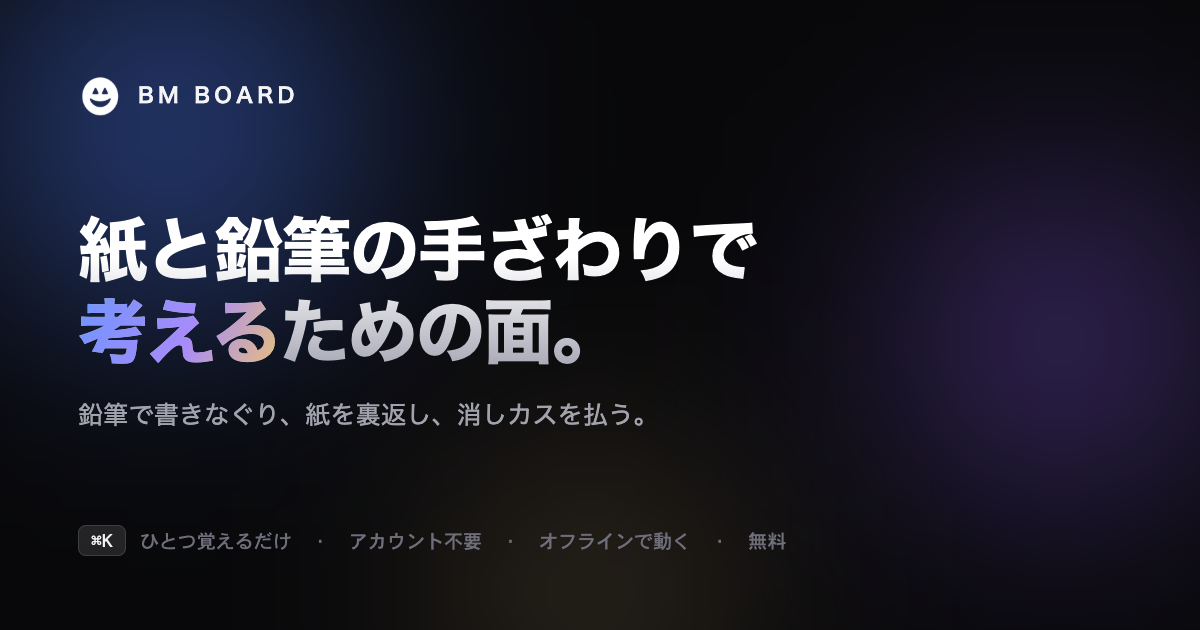
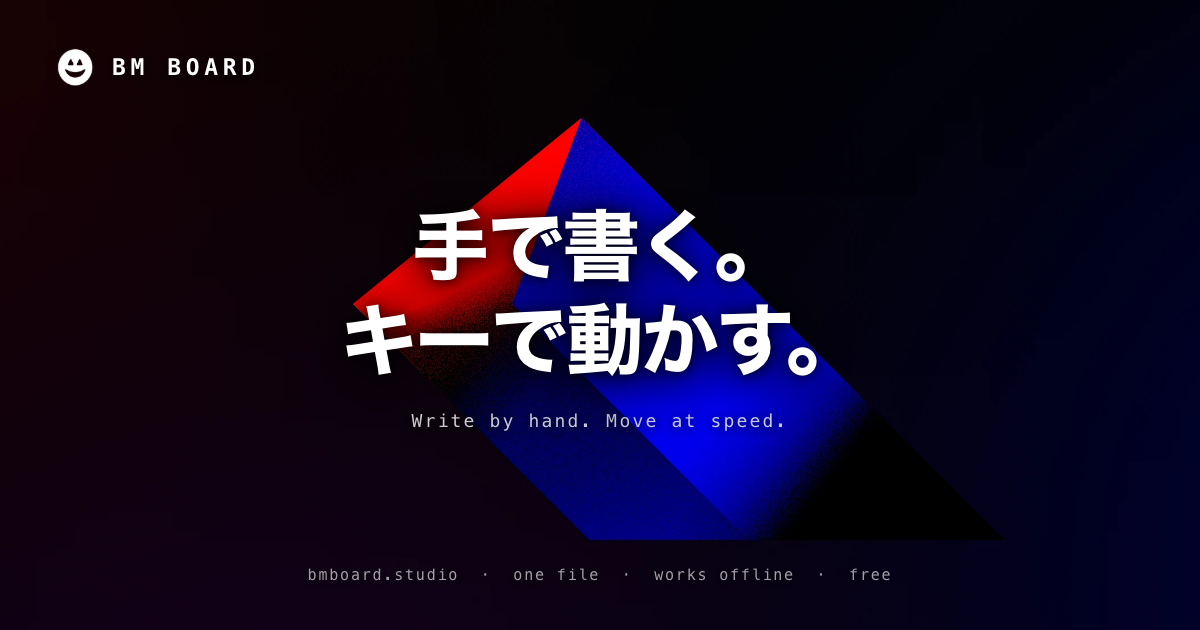
feat: OG画像を新デザインで作り直す（SNS共有の顔が旧デザインのままだった）
⚠サイトは 07-26 にKVで刷新したのに、OG画像は 07-25 の旧デザインのままで、
SNSに貼ると古い顔が出ていた（9ページ全部が同じ og-image.png を参照している）。

⭐画像を手で作らず preview/og-src.html を撮る形にした＝KVやコピーを変えた時に作り直せる。
1200×630・PNG（⚠WebPは一部のSNSで表示されないので使わない）。

diff --git a/preview/og-src.html b/preview/og-src.html
@@ -1,0 +1,44 @@
+<!doctype html>
+<html lang="ja">
+<head>
+<meta charset="utf-8">
+<meta name="robots" content="noindex,nofollow">
+<title>OG source — 1200×630</title>
+<style>
+/* ⭐OG画像（SNSで共有された時に出る絵）の元。
+   ここをブラウザで開いて 1200×630 で撮る → og-image.png に置き換える。
+   ⚠手で画像を作らずこのファイルを撮るのは、KVやコピーを変えた時に作り直せるようにするため。
+   撮り方: node で 1200×630・deviceScaleFactor 2 → cwebp/pngquant は使わず PNG のまま
+          （OGはPNG/JPGのみ。WebPは一部のSNSで表示されない） */
+*{box-sizing:border-box;margin:0;padding:0}
+body{width:1200px;height:630px;overflow:hidden;position:relative;background:#08080a;
+  font-family:-apple-system,BlinkMacSystemFont,'Hiragino Sans','Noto Sans JP',sans-serif;
+  -webkit-font-smoothing:antialiased}
+/* KVはサイトのヒーローと同じ見え方に（少し広げて中央） */
+.kv{position:absolute;left:-18%;top:-18%;width:136%;height:136%;
+  background:url('../kv/kv-hero.webp') center center / cover no-repeat}
+.brand{position:absolute;left:54px;top:46px;display:flex;align-items:center;gap:16px;
+  font-family:'SF Mono',ui-monospace,Menlo,monospace;font-size:23px;font-weight:700;
+  letter-spacing:.2em;color:#fff;text-shadow:0 2px 14px rgba(0,0,0,.9)}
+.brand img{width:42px;height:42px;filter:invert(1)}
+.copy{position:absolute;inset:0;display:flex;flex-direction:column;
+  align-items:center;justify-content:center;text-align:center;color:#fff}
+h1{font-size:78px;font-weight:700;letter-spacing:-.035em;line-height:1.2;
+  filter:drop-shadow(0 4px 24px rgba(0,0,0,.95)) drop-shadow(0 1px 6px rgba(0,0,0,.85))}
+.sub{margin-top:24px;font-family:'SF Mono',ui-monospace,Menlo,monospace;font-size:18px;
+  letter-spacing:.12em;color:rgba(255,255,255,.8);text-shadow:0 2px 12px rgba(0,0,0,.9)}
+.foot{position:absolute;left:0;right:0;bottom:46px;text-align:center;
+  font-family:'SF Mono',ui-monospace,Menlo,monospace;font-size:15px;letter-spacing:.12em;
+  color:rgba(255,255,255,.62);text-shadow:0 2px 10px rgba(0,0,0,.9)}
+</style>
+</head>
+<body>
+  <div class="kv"></div>
+  <div class="brand"><img src="../logo.png" alt="">BM BOARD</div>
+  <div class="copy">
+    <h1>手で書く。<br>キーで動かす。</h1>
+    <p class="sub">Write by hand. Move at speed.</p>
+  </div>
+  <p class="foot">bmboard.studio &nbsp;·&nbsp; one file &nbsp;·&nbsp; works offline &nbsp;·&nbsp; free</p>
+</body>
+</html>
